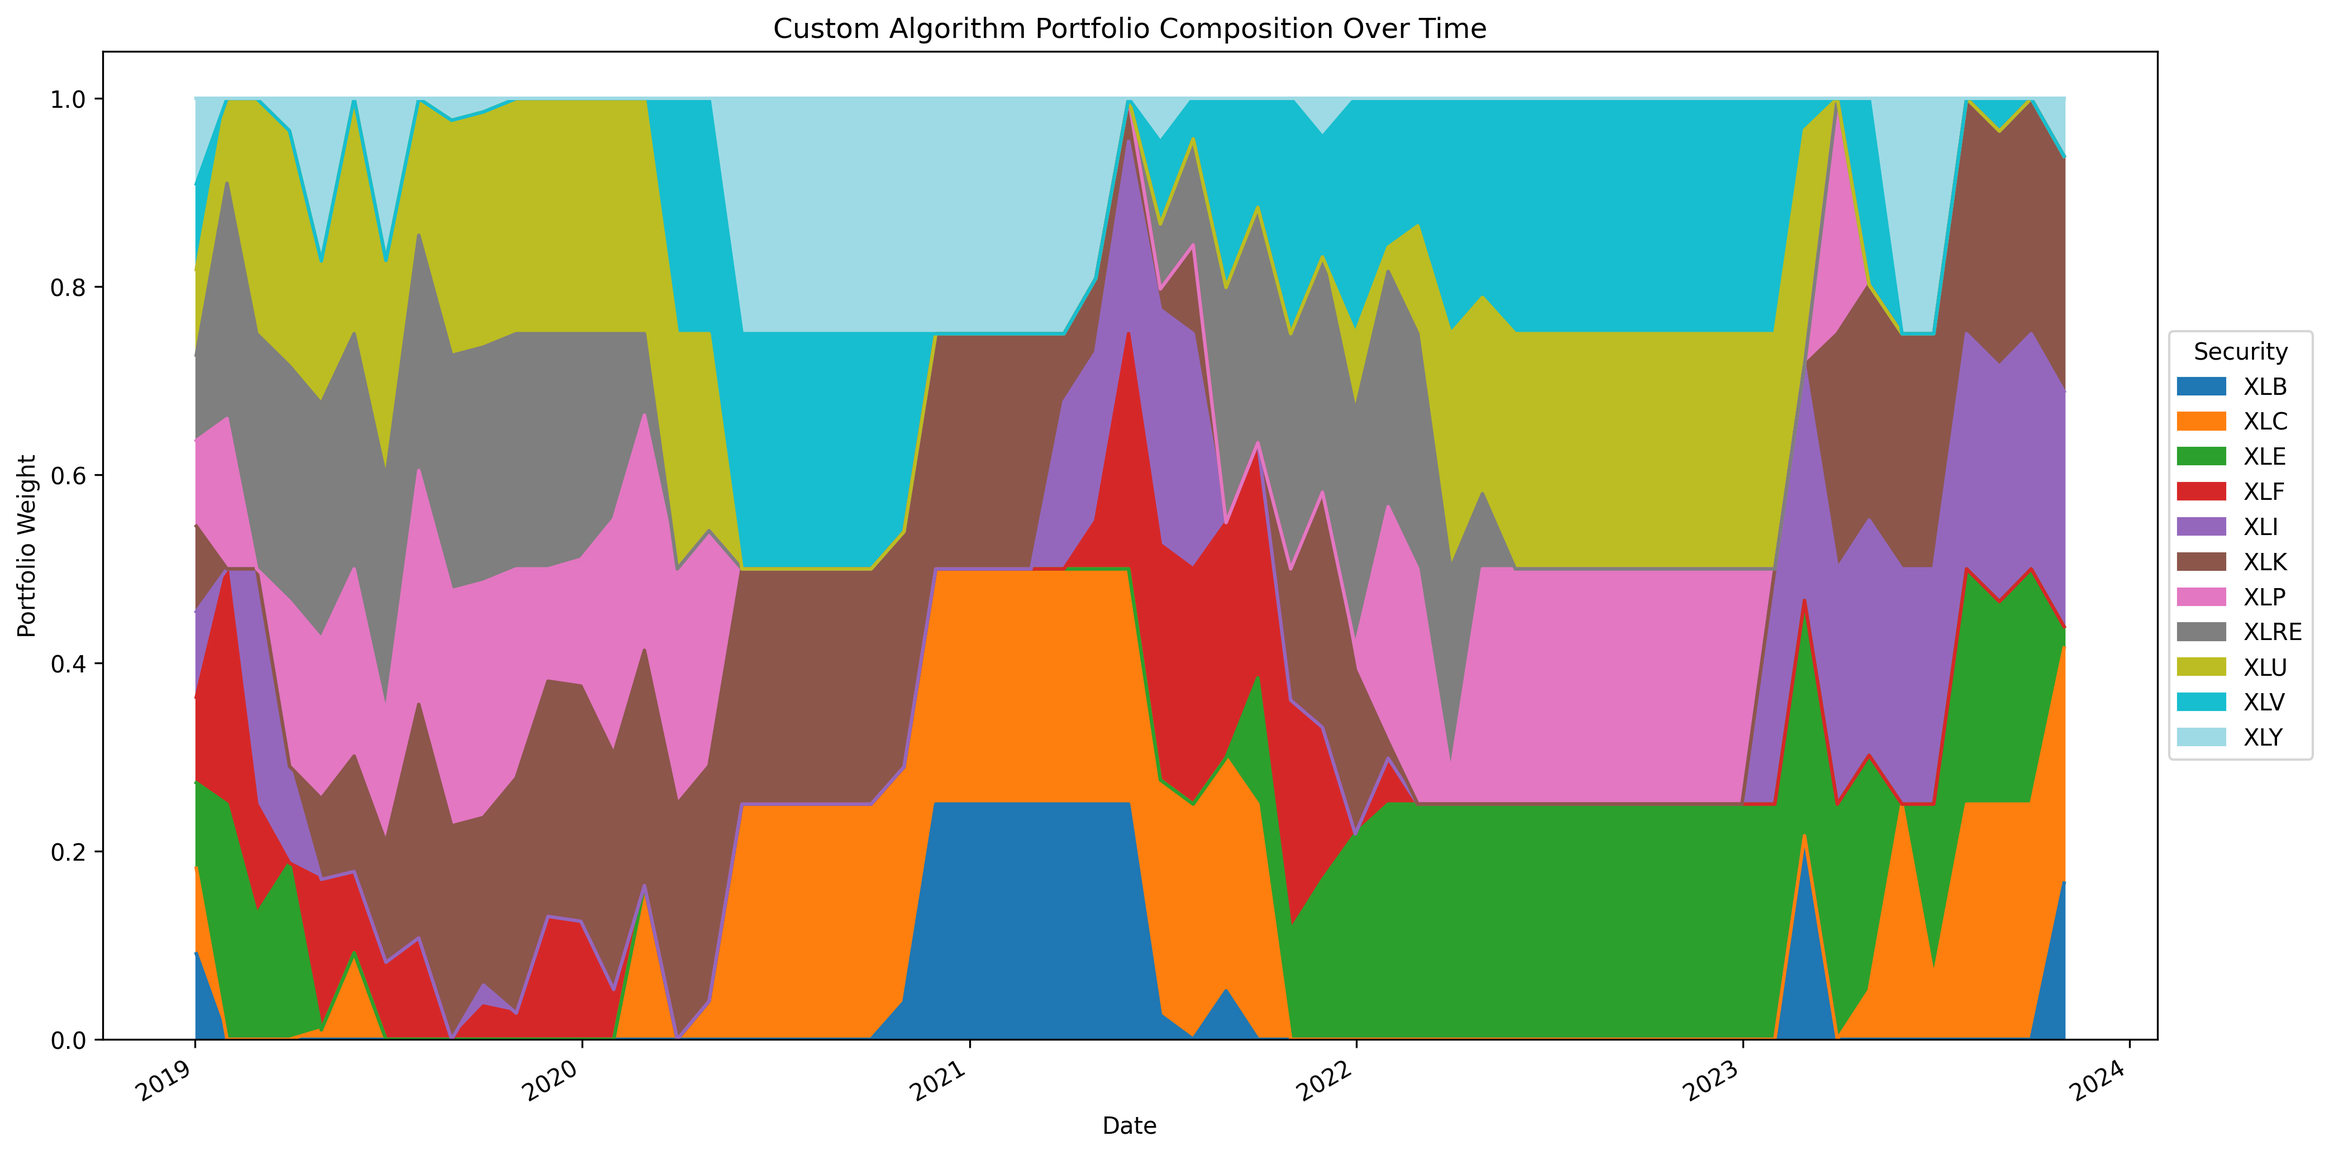
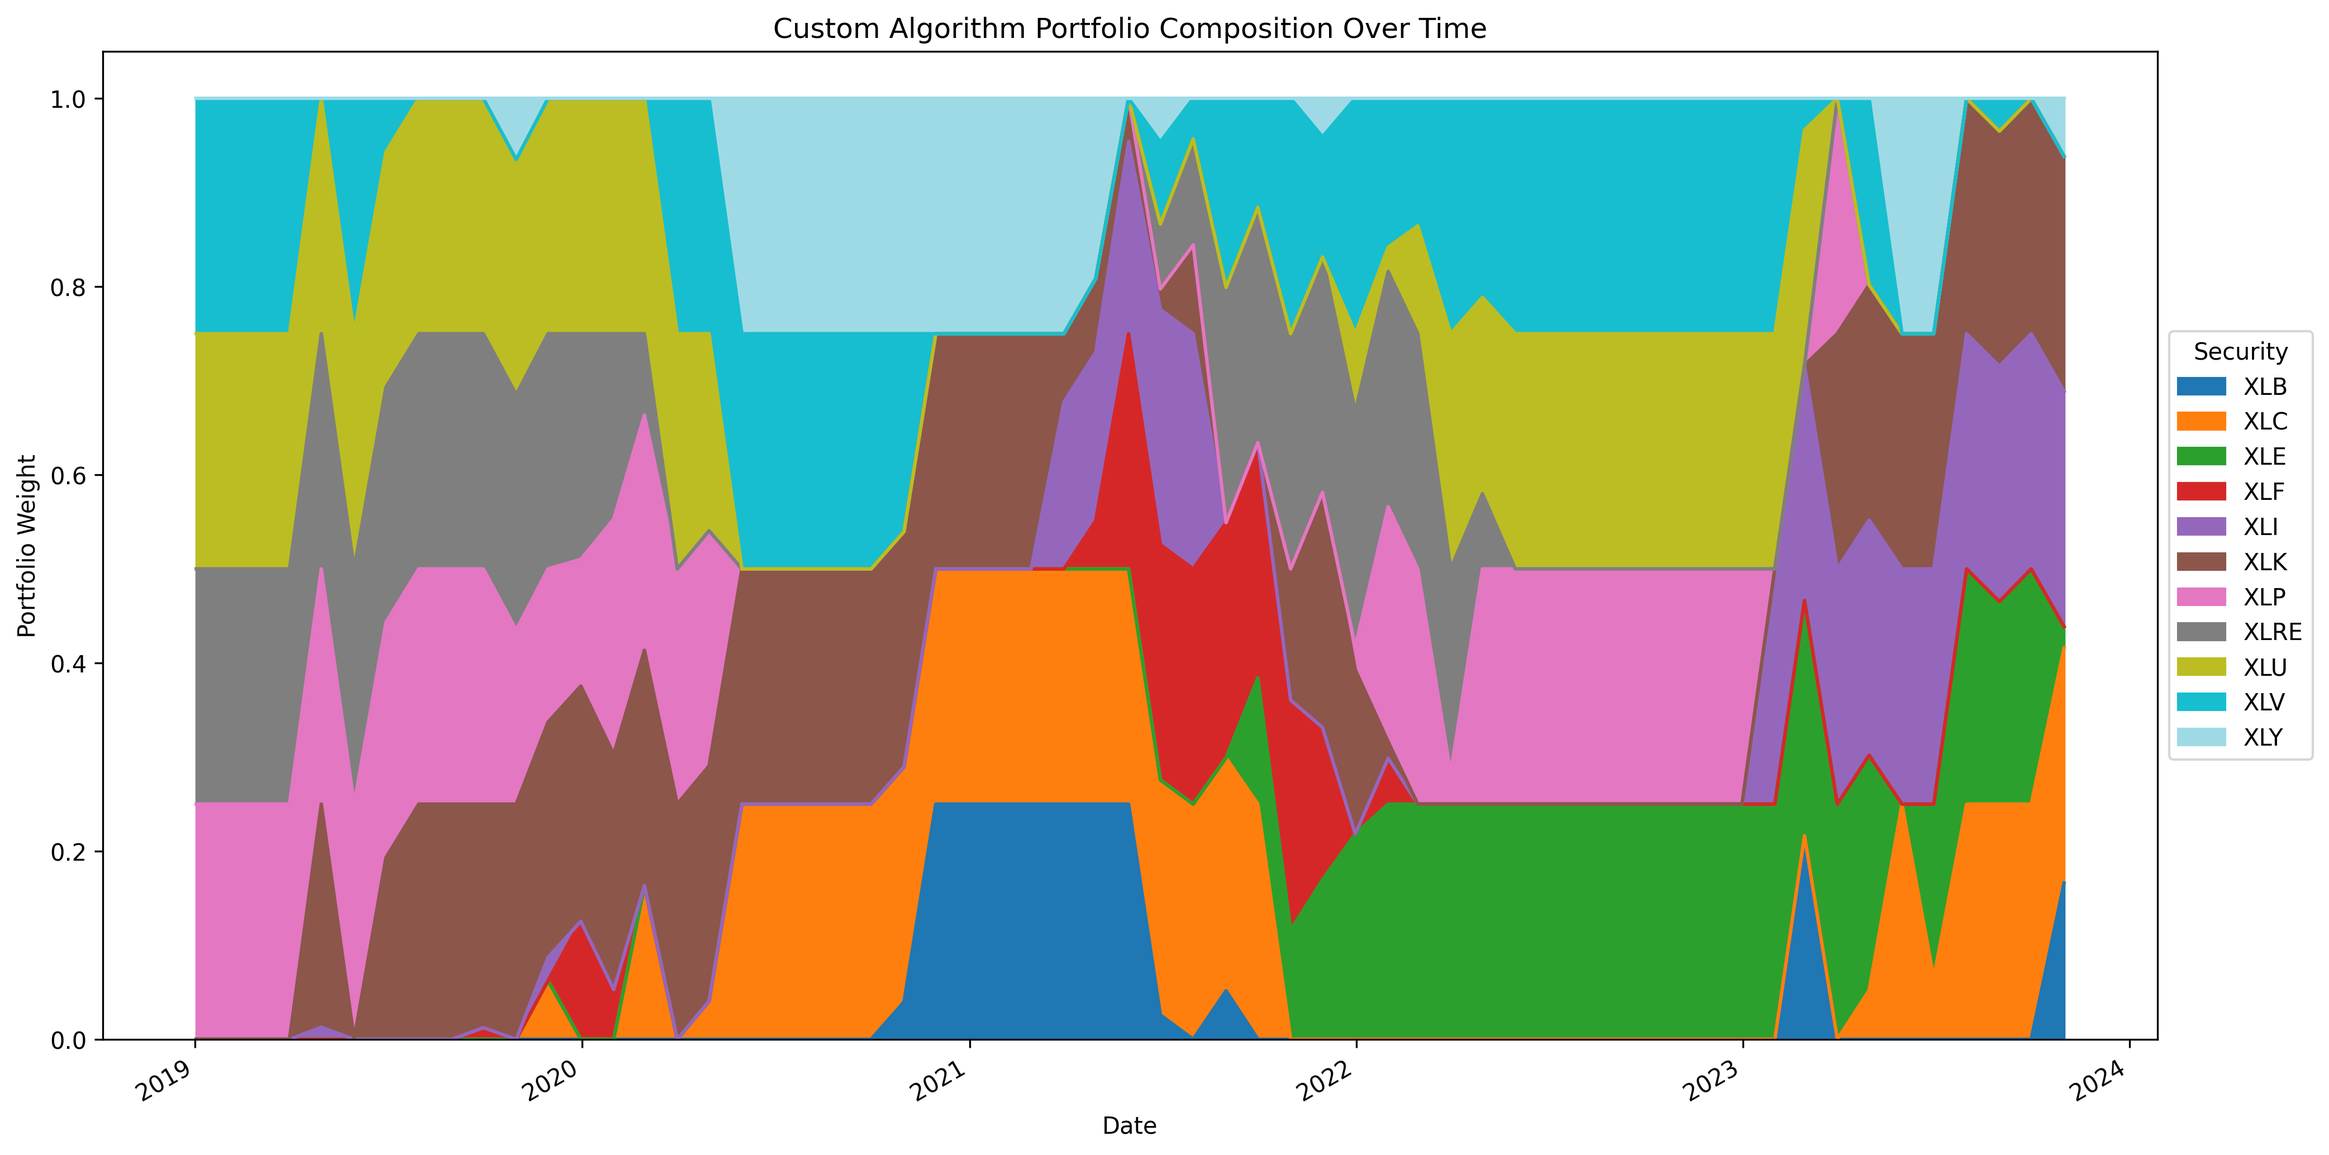
updating to use proper lookback windows for custom algorithm

Changed region(s): [[0.0624, 0.0619, 0.2495, 0.8975], [0.2183, 0.588, 0.2495, 0.6809]]

diff --git a/src/optimization/custom_algorithm.py b/src/optimization/custom_algorithm.py
@@ -416,6 +416,9 @@ def analyze_portfolio_performance_with_rebalancing(
     max_weight: Optional[float] = 0.25,
     min_weight: Optional[float] = 0.01,
     long_only: bool = True,
+    period: Optional[str] = None,
+    start_date: Optional[str] = None,
+    verbose: bool = False,
 ) -> Tuple[pd.Series, Dict[str, Any]]:
     """
     Analyze historical performance of a portfolio with periodic rebalancing.
@@ -429,7 +432,7 @@ def analyze_portfolio_performance_with_rebalancing(
     rebalance_frequency : str, optional
         Frequency of rebalancing, by default 'Q' (quarterly)
     lookback_window : int, optional
-        Number of trading days to use for parameter estimation, by default 252 (1 year)
+        Number of trading days to use for parameter estimation, by default 252
     risk_free_rate : float, optional
         Risk-free rate (annualized), by default 0.02
     max_weight : Optional[float], optional
@@ -438,6 +441,12 @@ def analyze_portfolio_performance_with_rebalancing(
         Minimum weight for any asset if included, by default 0.01
     long_only : bool, optional
         Whether to enforce long-only constraint, by default True
+    period : Optional[str], optional
+        Period to analyze, by default None
+    start_date : Optional[str], optional
+        Start date for custom period, by default None
+    verbose : bool, optional
+        Whether to print debug messages, by default False
 
     Returns:
     --------
@@ -457,23 +466,42 @@ def analyze_portfolio_performance_with_rebalancing(
     }
     rebal_freq = freq_map.get(rebalance_frequency, rebalance_frequency)
 
-    # Generate rebalancing dates
+    # Define periods dictionary locally (matches main)
+    periods: Dict[str, Tuple[str, str]] = {
+        "financial_crisis": ("2008-01-02", "2013-01-02"),
+        "post_crisis": ("2012-01-01", "2018-12-31"),
+        "recent": ("2019-01-01", "2023-12-31"),
+    }
+
+    # Determine the true portfolio start date (after trailing data is included)
+    if period and period in periods:
+        intended_start = pd.to_datetime(periods[period][0])
+    elif start_date:
+        intended_start = pd.to_datetime(start_date)
+    else:
+        intended_start = returns_data.index[0]
+    # Find the first available date >= intended_start
+    portfolio_start_date = returns_data.index[returns_data.index >= intended_start][0]
+
+    # When generating rebalancing dates, only include those on or after the portfolio start date
     rebal_dates = pd.date_range(
-        start=returns_data.index.min(), end=returns_data.index.max(), freq=rebal_freq
+        start=portfolio_start_date, end=returns_data.index.max(), freq=rebal_freq
     )
 
-    # Add first date if not already present
-    if returns_data.index[0] not in rebal_dates:
-        rebal_dates = rebal_dates.insert(0, returns_data.index[0])
+    # If the portfolio_start_date is not in rebal_dates, insert it
+    if portfolio_start_date not in rebal_dates:
+        rebal_dates = rebal_dates.insert(0, portfolio_start_date)
 
     # Initialize tracking variables
     portfolio_returns = pd.Series(index=returns_data.index)
     current_weights = None
     rebalancing_history = []
 
-    # Iterate through each period between rebalancing dates
+    # Only process rebalancing periods where current_date >= portfolio_start_date
     for i in range(len(rebal_dates) - 1):
         current_date = rebal_dates[i]
+        if current_date < portfolio_start_date:
+            continue
         next_rebal_date = rebal_dates[i + 1]
 
         # Get dates in the current period
@@ -489,19 +517,56 @@ def analyze_portfolio_performance_with_rebalancing(
         if current_weights is None or current_date in rebal_dates:
             # Determine lookback window for parameter estimation
             lookback_end = current_date
-            lookback_start = returns_data.index[returns_data.index <= lookback_end][
-                -min(lookback_window, len(returns_data.index)) :
-            ][0]
-
-            print(
-                f"Rebalance on {current_date.date()}: using lookback window from {lookback_start.date()} to {lookback_end.date()} ({lookback_window} days)"
-            )
+            # Align lookback_end to the closest previous available date in the index
+            if lookback_end not in returns_data.index:
+                lookback_end = returns_data.index[returns_data.index <= lookback_end][
+                    -1
+                ]
+            # Find the index of lookback_end in returns_data
+            end_idx = returns_data.index.get_loc(lookback_end)
+            # Compute start index for lookback window (handle case where not enough data)
+            lookback_len = min(lookback_window, end_idx + 1)
+            lookback_start = returns_data.index[end_idx - lookback_len + 1]
 
             # Filter data for the lookback period
             lookback_data = returns_data.loc[lookback_start:lookback_end]
+            if verbose:
+                print(
+                    f"[DEBUG] Lookback data shape: {lookback_data.shape}, Dates: {lookback_data.index[0].date()} to {lookback_data.index[-1].date()}"
+                )
+                print(
+                    f"[DEBUG] First few rows of lookback data:\n{lookback_data.head()}"
+                )
+
+            # Accurate logging: always report actual lookback length
+            if verbose:
+                print(
+                    f"[DEBUG] Rebalance on {current_date.date()}: using lookback window from {lookback_start.date()} to {lookback_end.date()} (length: {lookback_data.shape[0]} days)"
+                )
+
+            # Exclude any securities with missing values in the lookback window
+            valid_securities = lookback_data.columns[lookback_data.notna().all(axis=0)]
+            lookback_data_valid = lookback_data[valid_securities]
+            dropped = set(lookback_data.columns) - set(valid_securities)
+            if len(valid_securities) < lookback_data.shape[1]:
+                if verbose:
+                    print(
+                        f"[DEBUG] Excluding securities with incomplete data for this lookback window: {dropped}"
+                    )
+            if lookback_data_valid.shape[1] == 0:
+                print(
+                    f"[ERROR] No securities with complete data for lookback window ending {lookback_end.date()}. Skipping rebalance."
+                )
+                continue
 
             # Prepare optimization inputs
-            expected_returns, cov_matrix = prepare_optimization_inputs(lookback_data)
+            expected_returns, cov_matrix = prepare_optimization_inputs(
+                lookback_data_valid
+            )
+            if verbose:
+                print(f"[DEBUG] Expected returns:\n{expected_returns}")
+                print(f"[DEBUG] Covariance matrix:\n{cov_matrix}")
+
             # Run optimization
             try:
                 optimal_weights, _ = optimization_function(
@@ -519,15 +584,15 @@ def analyze_portfolio_performance_with_rebalancing(
                     {"date": current_date, "weights": current_weights.to_dict()}
                 )
 
-                print(f"Rebalanced portfolio on {current_date.date()}")
+                print(
+                    f"Rebalanced portfolio on {current_date.date()}"
+                    + (f" [dropped: {dropped}]" if dropped else "")
+                )
             except Exception as e:
                 print(f"Optimization failed for date {current_date.date()}: {e}")
-                if current_weights is None:
-                    # For the first period, if optimization fails, use equal weights
-                    current_weights = pd.Series(
-                        1 / len(returns_data.columns), index=returns_data.columns
-                    )
-                # else continue with previous weights
+                raise RuntimeError(
+                    f"Optimization failed for date {current_date.date()}: {e}"
+                )
 
         # Calculate period returns using current weights
         period_returns = returns_data.loc[period_dates]
@@ -582,6 +647,7 @@ def main(
     start_date: Optional[str] = None,
     end_date: Optional[str] = None,
     years: Optional[int] = None,
+    verbose: bool = False,
 ) -> None:
     """
     Main function to run the Fast Algorithm portfolio optimization.
@@ -649,18 +715,33 @@ def main(
     # Filter returns by predefined period if specified
     elif period and period in periods:
         start_date, end_date = periods[period]
-        returns_data = filter_by_period(returns_data, start_date, end_date)
-
-        # Check if we have enough data after filtering
-        if len(returns_data) == 0:
-            print(
-                f"ERROR: No data available for period {period} ({start_date} to {end_date})"
-            )
-            print("Please choose a different period or check your data source.")
-            return
-
+        # --- NEW: Ensure enough trailing data is included for lookback window ---
+        # Convert start_date to datetime
+        start_dt = pd.to_datetime(start_date)
+        # Find earliest date needed
+        if lookback_window > 1:
+            earliest_needed = start_dt - pd.Timedelta(
+                days=int(lookback_window * 1.5)
+            )  # 1.5x fudge for weekends/holidays
+        else:
+            earliest_needed = start_dt
+        # Filter returns from earliest_needed
+        returns_data = filter_by_period(
+            returns_data, earliest_needed.strftime("%Y-%m-%d"), end_date
+        )
+        print(
+            f"For period '{period}', including trailing data from {earliest_needed.strftime('%Y-%m-%d')} to {end_date}"
+        )
+        # --- END NEW ---
+        # After trailing filter, restrict to only the desired period for reporting/outputs
+        if start_date:
+            returns_data_for_portfolio = returns_data[
+                returns_data.index >= pd.to_datetime(start_date)
+            ]
+        else:
+            returns_data_for_portfolio = returns_data.copy()
     # Apply start_date and end_date filtering for both 'custom' and 'recent' if provided
-    if period in ("custom", "recent"):
+    elif period in ("custom", "recent"):
         if start_date:
             returns_data = returns_data[
                 returns_data.index >= pd.to_datetime(start_date)
@@ -704,14 +785,17 @@ def main(
             rebalance_frequency=rebalance_frequency,
             lookback_window=lookback_window,
             risk_free_rate=risk_free_rate,
-            long_only=long_only,
             max_weight=max_weight,
             min_weight=min_weight,
+            long_only=long_only,
+            period=period,
+            start_date=start_date,
+            verbose=verbose,
         )
 
         # Save rebalancing history (CSV, as before)
         rebalancing_df = pd.DataFrame(performance_metrics["rebalancing_history"])
-        rebalancing_file = os.path.join(output_dir, "fa_rebalancing_history.csv")
+        rebalancing_file = os.path.join(output_dir, "cust_rebalancing_history.csv")
         rebalancing_df.to_csv(rebalancing_file, index=False)
         print(f"Saved rebalancing history to {rebalancing_file}")
         # Save as Excel for custom algorithm (for visualization)
@@ -726,11 +810,11 @@ def main(
 
     # Save results
     # Save optimal weights
-    weights_file = os.path.join(output_dir, "fa_optimal_weights.csv")
+    weights_file = os.path.join(output_dir, "cust_optimal_weights.csv")
     optimal_weights.to_csv(weights_file)
     print(f"Saved optimal weights to {weights_file}")
     # Also save as XLSX
-    weights_xlsx = os.path.join(output_dir, "fa_optimal_weights.xlsx")
+    weights_xlsx = os.path.join(output_dir, "cust_optimal_weights.xlsx")
     optimal_weights.to_frame("weight").to_excel(weights_xlsx)
     print(f"Saved optimal weights to {weights_xlsx}")
 
@@ -745,31 +829,31 @@ def main(
             ],
         }
     )
-    metrics_file = os.path.join(output_dir, "fa_portfolio_metrics.csv")
+    metrics_file = os.path.join(output_dir, "cust_portfolio_metrics.csv")
     metrics_df.to_csv(metrics_file, index=False)
     print(f"Saved portfolio metrics to {metrics_file}")
     # Also save as XLSX
-    metrics_xlsx = os.path.join(output_dir, "fa_portfolio_metrics.xlsx")
+    metrics_xlsx = os.path.join(output_dir, "cust_portfolio_metrics.xlsx")
     metrics_df.to_excel(metrics_xlsx, index=False)
     print(f"Saved portfolio metrics to {metrics_xlsx}")
 
     # Save portfolio returns
-    returns_file = os.path.join(output_dir, "fa_portfolio_returns.csv")
+    returns_file = os.path.join(output_dir, "cust_portfolio_returns.csv")
     portfolio_returns.to_frame("portfolio_return").to_csv(returns_file)
     print(f"Saved portfolio returns to {returns_file}")
     # Also save as XLSX
-    returns_xlsx = os.path.join(output_dir, "fa_portfolio_returns.xlsx")
+    returns_xlsx = os.path.join(output_dir, "cust_portfolio_returns.xlsx")
     portfolio_returns.to_frame("portfolio_return").to_excel(returns_xlsx)
     print(f"Saved portfolio returns to {returns_xlsx}")
 
     # Save rolling annual returns for histogram
-    rolling_returns_file = os.path.join(output_dir, "fa_rolling_annual_returns.csv")
+    rolling_returns_file = os.path.join(output_dir, "cust_rolling_annual_returns.csv")
     performance_metrics["rolling_annual_returns"].to_frame("annual_return").to_csv(
         rolling_returns_file
     )
     print(f"Saved rolling annual returns to {rolling_returns_file}")
     # Also save as XLSX
-    rolling_returns_xlsx = os.path.join(output_dir, "fa_rolling_annual_returns.xlsx")
+    rolling_returns_xlsx = os.path.join(output_dir, "cust_rolling_annual_returns.xlsx")
     performance_metrics["rolling_annual_returns"].to_frame("annual_return").to_excel(
         rolling_returns_xlsx
     )
@@ -857,6 +941,11 @@ if __name__ == "__main__":
         default=252,
         help="Lookback window in trading days for parameter estimation",
     )
+    parser.add_argument(
+        "--verbose",
+        action="store_true",
+        help="Print debug messages",
+    )
     args = parser.parse_args()
 
     rebalance_portfolio = True if args.rebalance_frequency is not None else False
@@ -874,4 +963,5 @@ if __name__ == "__main__":
         start_date=args.start_date,
         end_date=args.end_date,
         years=args.years,
+        verbose=args.verbose,
     )

diff --git a/src/analysis/benchmark_analysis.py b/src/analysis/benchmark_analysis.py
@@ -534,7 +534,7 @@ def plot_histograms_of_annualized_returns(verbose: bool = False):
     files = {
         "SPY": "results/models/spy_returns.csv",
         "Balanced": "results/models/balanced_returns_M.csv",
-        "Custom": "results/models/fa_portfolio_returns.csv",
+        "Custom": "results/models/cust_portfolio_returns.csv",
         "Fast": "results/models/ofa_portfolio_returns.csv",
     }
     outnames = {
@@ -933,7 +933,7 @@ if __name__ == "__main__":
         args.files = [
             "results/models/spy_returns.csv",
             "results/models/balanced_returns_M.csv",
-            "results/models/fa_portfolio_returns.csv",
+            "results/models/cust_portfolio_returns.csv",
             "results/models/one_factor_fast_algorithm_returns.csv",
             "results/models/returns_algorithm_portfolio.csv",
             "results/models/weighted_top_five_portfolio.csv",

diff --git a/src/optimization/one_factor_fast_algorithm.py b/src/optimization/one_factor_fast_algorithm.py
@@ -140,7 +140,13 @@ def analyze_portfolio_performance_with_rebalancing(
             verbose=verbose,
         )
         # Calculate optimal portfolio and get the selected weights
-        current_weights = model.calculate_optimal_portfolio()
+        try:
+            current_weights = model.calculate_optimal_portfolio()
+        except Exception as e:
+            print(f"Optimization failed for period starting {start_rebal.date()}: {e}")
+            raise RuntimeError(
+                f"Optimization failed for period starting {start_rebal.date()}: {e}"
+            )
 
         # Store weights for this period
         period_weights = current_weights.copy()  # Make a copy to avoid reference issues

diff --git a/run.py b/run.py
@@ -30,7 +30,7 @@ DEFAULT_PATHS = {
     # Results
     "models_dir": "results/models",
     "ca_weights": "results/models/fa_optimal_weights.csv",
-    "ca_returns": "results/models/fa_portfolio_returns.csv",
+    "ca_returns": "results/models/cust_portfolio_returns.csv",
     "one_factor_returns": "results/models/ofa_portfolio_returns.csv",  # Updated to match actual output
     "ra_returns": "results/models/returns_algorithm_portfolio.csv",  # Returns algorithm portfolio returns
     "wtf_returns": "results/models/weighted_top_five_portfolio.csv",  # Weighted Top Five portfolio returns

diff --git a/src/analysis/returns_sharpe_comparison.py b/src/analysis/returns_sharpe_comparison.py
@@ -10,7 +10,7 @@ os.makedirs(FIGURES_DIR, exist_ok=True)
 # File paths for the four portfolios
 spy_file = os.path.join(RESULTS_DIR, "spy_returns.csv")
 balanced_file = os.path.join(RESULTS_DIR, "balanced_returns_M.csv")
-custom_file = os.path.join(RESULTS_DIR, "fa_portfolio_returns.csv")
+custom_file = os.path.join(RESULTS_DIR, "cust_portfolio_returns.csv")
 fast_file = os.path.join(RESULTS_DIR, "ofa_portfolio_returns.csv")
 
 # Portfolio display names

diff --git a/src/optimization/visualize_portfolio.py b/src/optimization/visualize_portfolio.py
@@ -581,7 +581,9 @@ def main(
 
     # Always include custom and fast algorithm portfolios
     additional_benchmarks = {
-        "Custom Algorithm": os.path.join("results/models", "fa_portfolio_returns.csv"),
+        "Custom Algorithm": os.path.join(
+            "results/models", "cust_portfolio_returns.csv"
+        ),
         "Fast Algorithm": os.path.join("results/models", "ofa_portfolio_returns.csv"),
     }
     if benchmark_files:
